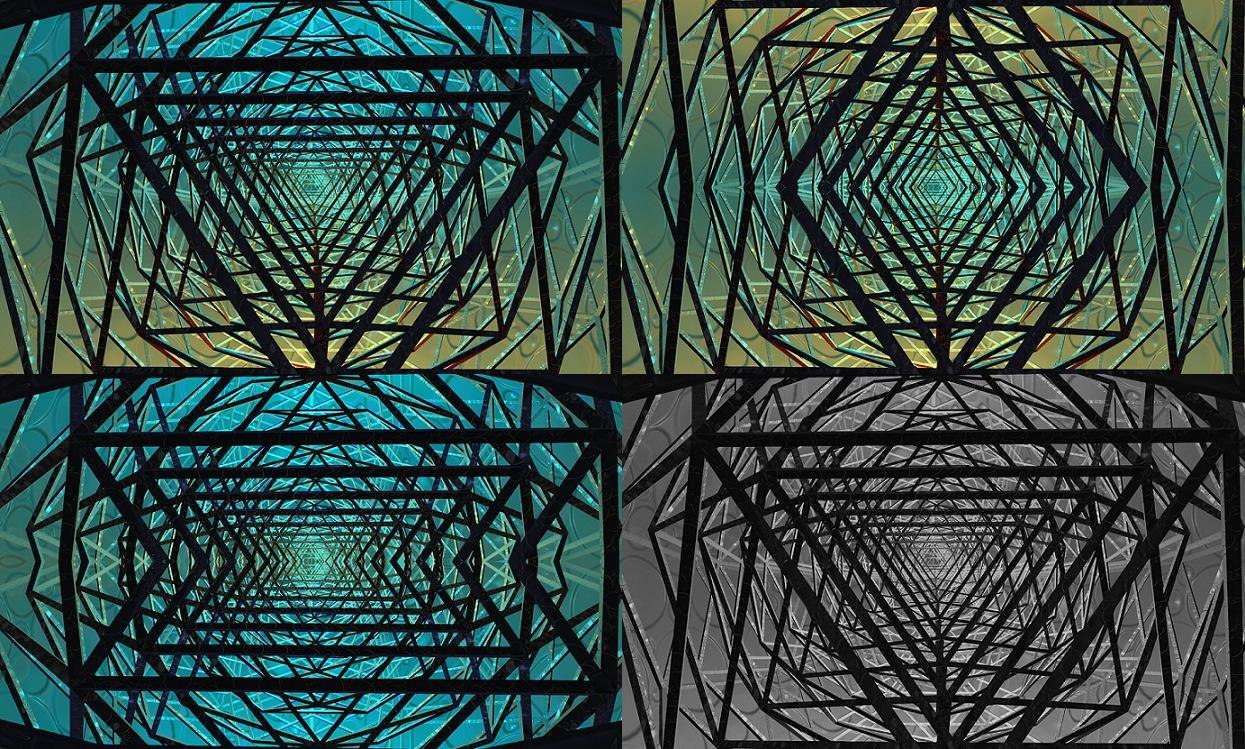
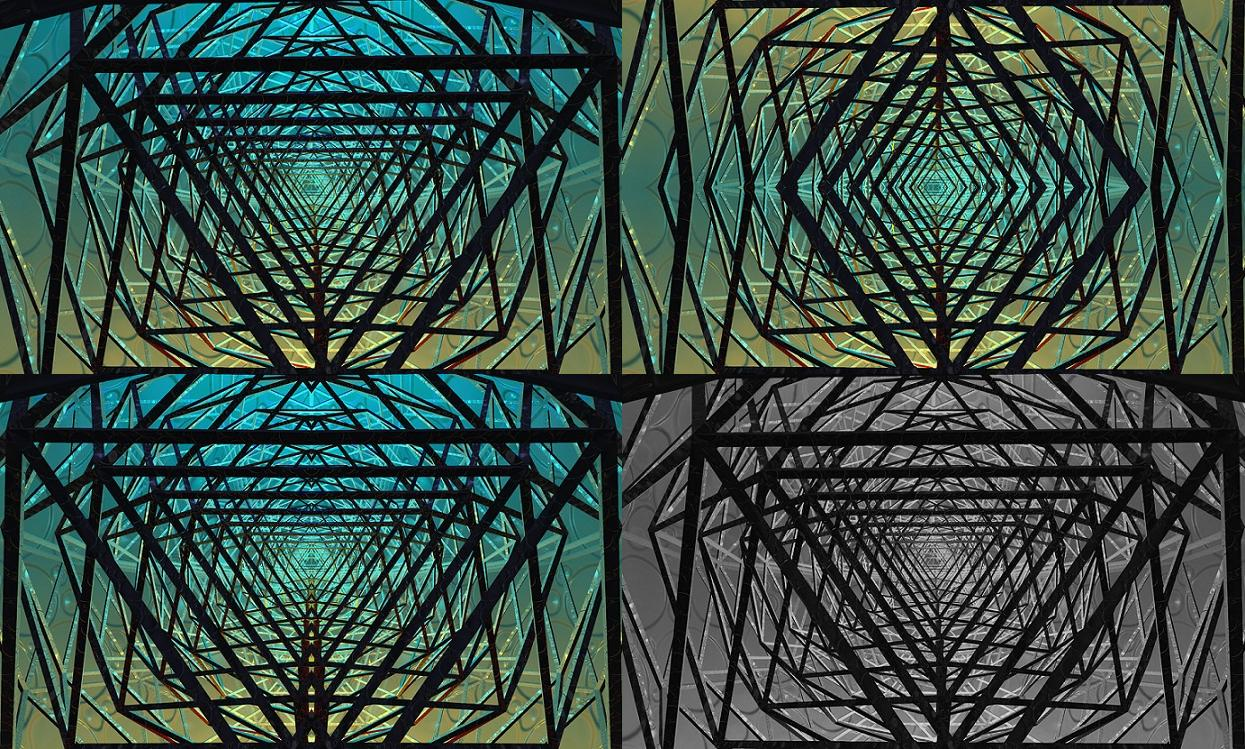
done done

Changed region(s): [[0.0, 0.4913, 0.5189, 1.0]]

diff --git a/PictureLab/classes/Picture.java b/PictureLab/classes/Picture.java
@@ -200,22 +200,22 @@ public class Picture extends SimplePicture
 
     public void cropAndCopy(Picture sourcePicture, int startSourceRow, int endSourceRow, int startSourceCol, int endSourceCol, int startDestRow, int startDestCol)
     {
-        Pixel[][] sourcePixels = sourcePicture.getPixels2D();
+        Pixel[][] source = sourcePicture.getPixels2D();
         Pixel[][] pixels = this.getPixels2D();
-        int rowCount = startDestRow;
-        int colCount = startDestCol;
-        for (int row = startSourceRow; row <= endSourceRow; row++)
+        int rowDifference = startDestRow;
+        int colDifference = startDestCol;
+        for(int row = startSourceRow; row <= endSourceRow; row++)
         {
-            for (int col = startSourceCol; col <= endSourceCol; col++)
+            for(int col = startSourceCol; col <= endSourceCol; col++)
             {
-                Pixel sourcePixel = sourcePixels[row][col];
-                Pixel destPixel = pixels[rowCount][colCount];
+                Pixel sourcePixel = source[row][col];
+                Pixel destPixel = pixels[rowDifference][colDifference];
                 destPixel.setColor(sourcePixel.getColor());
-                colCount++;
-                if (colCount > (startDestCol + (endSourceCol - startSourceCol)))
+                colDifference++;
+                if (colDifference > (startDestCol + (endSourceCol - startSourceCol)))
                 {
-                    colCount = startDestCol;
-                    rowCount++;
+                    colDifference = startDestCol;
+                    rowDifference++;
                 }
             }
         }

diff --git a/PictureLab/classes/CollageLab.java b/PictureLab/classes/CollageLab.java
@@ -21,7 +21,7 @@ public class CollageLab
         total.cropAndCopy(pic, 0, 374, 0, 622,0 ,0 );
         
         Picture pic2 = new Picture("icosfera.jpg");
-        pic2.mirrorHorizontal();
+        pic2.mirrorVerticalRightToLeft();
         total.cropAndCopy(pic2, 0, 374, 0, 622, 374, 0);
         
         Picture pic3 = new Picture("icosfera.jpg");
